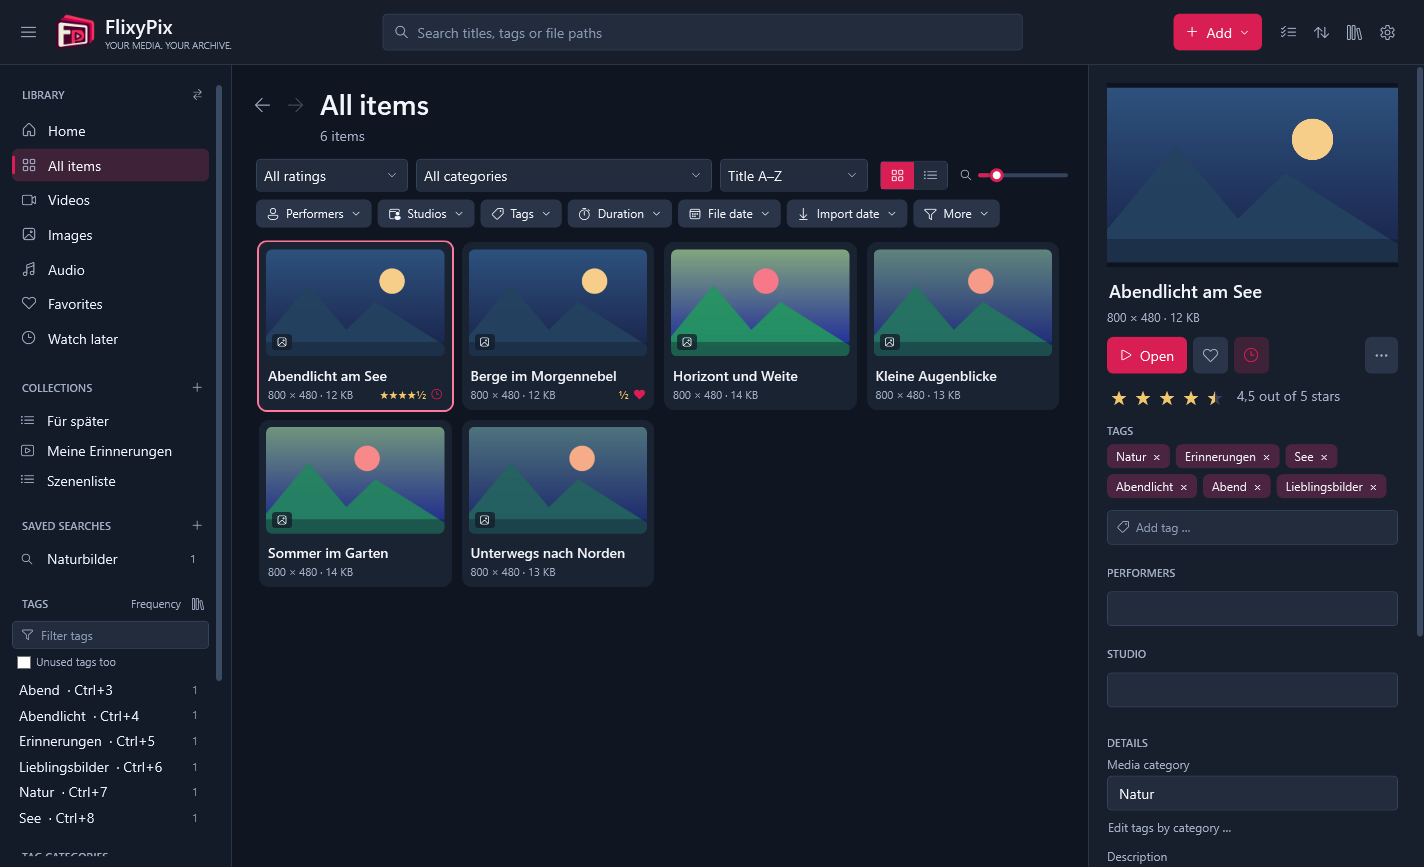
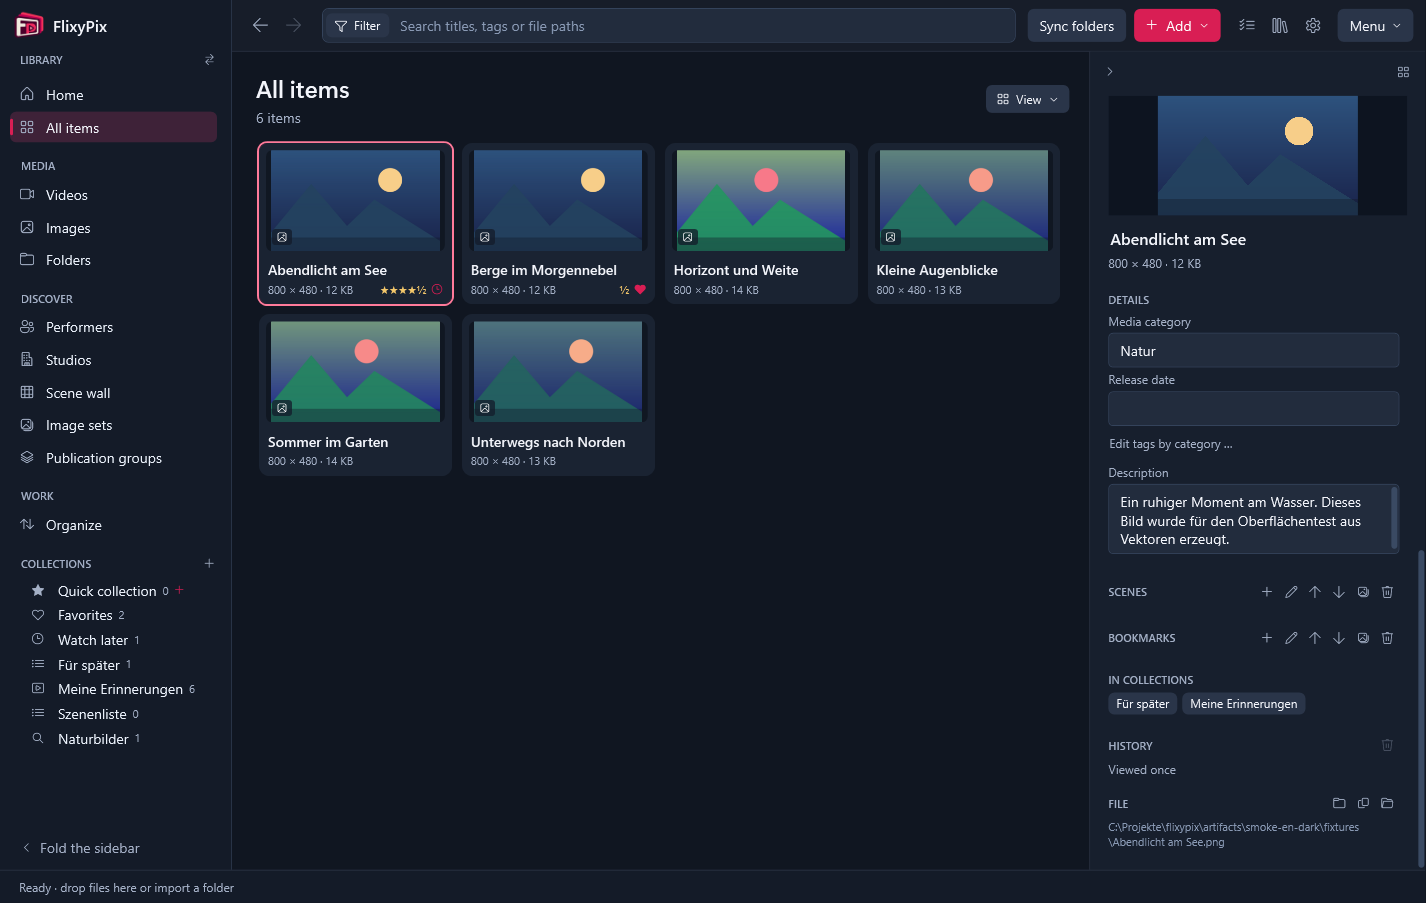
Prepare changelog, readmes and screenshot for 0.6.0

diff --git a/CHANGELOG.md b/CHANGELOG.md
@@ -5,51 +5,68 @@ FlixyPix follows [semantic versioning](https://semver.org/). Before 1.0, a minor
 
 ## Unreleased
 
-The catalog format changes; libraries opened with this version
-are upgraded and should not be opened with 0.5.0 afterwards (a copy is kept before the upgrade).
+**Upgrading from 0.5.0:** the catalog format changes. FlixyPix asks before converting a library and
+keeps a copy of the catalog beside it; 0.5.0 cannot open a converted library. Back up your media files
+separately. Ctrl+1–9 no longer sets tags: pinned tags now work with 1–9 in the tag mode (T).
 
-- New layout: the left bar is for navigation and collections; tags and common filters open in a panel beside the media, and active filters stand as chips in the search field.
-- Folders are an area of their own: walk through them with the tree, the path above the media or the subfolders; “Show in folder” in the details goes straight there.
-- Performers and studios are galleries, most frequent first, with a page per entry; the table for maintaining entries is one click away.
-- The selection bar offers tag mode, collections and more; the details appear only while something is selected.
-- The scene wall and the media jobs are pages of the main window, and a double click opens a page per medium with its picture, timeline, marks, history and similar media. Enter and the play button on a tile still play.
-- “Organize” is a work area: queues such as without tags and unrated are worked through one item at a time with visible progress, beside the maintenance tools.
-- The start page leads with continue watching, recently added, recently tagged and what is left to do, instead of a banner; the notice at start is gone.
-- The queues of “Organize” can be narrowed to videos, images or audio, on the page and above a running queue; the choice stays.
-- The thumbnail check skips images, which need no thumbnail, and no longer decodes pictures in common formats, so it stays quick in large libraries.
-- One type scale and three sizes for text buttons across the application.
-- Ctrl+1–9 no longer sets tags. Pinned tags work with 1–9 in the tag mode (T).
-- Interface size: all text and controls from 85 to 160 % in the settings or with Ctrl+Plus, Ctrl+Minus and Ctrl+0.
-- Calmer look: the accent marks the main action and the current choice, applied tags and filters are neutral.
-- Tag mode (T): tag with one hand using 1–9 and Q W E R, move on with the arrow keys; rows and keys stay put.
-- Suggestions say why they appear, compare against how common a tag is, send performers and studios to their
-  categories and fall behind when ignored; applied tags come first and only their × removes them.
-- The folder filter shows as a chip, and a bar states selections the grid cannot show.
-- Moving a library rewrites only media whose paths change.
-- Import from Stash: a wizard for scenes, images, galleries, groups, performers, studios and
-  tag parents, with explicit version confirmation, images inside archives and guarded
-  transactions, fast also for large exports.
-- Organize: review inbox, selective parser apply, image sets, publication groups, tag
-  hierarchy, a duplicate hub, performer and studio views and a paged scene wall.
-- Player: A–B loops, playback preferences per video, seek previews from memory and times on
-  contact sheets. A compact bar with symbol groups for loop, bookmark and scene marking, one
-  symbol for audio and subtitle tracks, grouped jump marks and a star rating.
-- Sidebar: library entries in foldable groups with icons, scrolling together with the cards.
-  The review inbox appears once reviewing is in use (setting: automatic, always, never), audio
-  only with audio media. Favorites and Watch later are fixed rows of the collection card; tags
-  and tag categories share one card with a list/categories switch and visible sorting.
-- Boss key: system-wide by default, also with Esc; the program in front still receives the
-  key. Hidden windows return with a separate shortcut.
-- Portable storage with safe switching between portable and profile mode. Libraries taken over
-  before their location was recorded find their thumbnails again after a move.
-- Folder synchronization, media folder tabs and undo of immediate edits per field.
-- Thumbnail filter: the list appears at once and missing or damaged thumbnail files join it from
-  a check in the background; audio without a picture no longer counts as missing a thumbnail.
-- Lists to work through: what an edit moves out of the "without thumbnail" or "unrated" filter
-  stays visible as done until "Update list" or another view. "Create thumbnails for this list"
-  handles all its videos.
-- Folder tree: levels shared by all folders without media of their own are left out; the tooltip
-  of "All folders" names them.
+**A new layout**
+
+- The left bar holds the areas and your collections, and folds to symbols. Tags and common filters open
+  in a panel beside the media; every other filter is still one click away. Active filters stand as
+  chips in the search field.
+- Folders are an area of their own: walk through them with the tree, the path above the media or the
+  subfolders. "Show in folder" in the details goes straight there.
+- Normal work stays in the main window. The scene wall and media jobs are pages, and a double click
+  opens a page per medium with its picture, timeline, marks, history and similar media. Enter and the
+  play button on a tile still play.
+- Performers and studios are galleries, most frequent first, with a page per entry; the table for
+  maintaining entries is one click away.
+- "Organize" is a work area: queues such as without tags and unrated are worked through one item at a
+  time with visible progress, can be narrowed to videos, images or audio, and stand beside the
+  maintenance tools.
+- The start page leads with what is left to do, continue watching, recently added and recently tagged,
+  instead of a banner and a notice at start.
+- The details appear only while something is selected. A bar offers tag mode, collections and more for
+  several items, and says when some are out of view.
+- Interface size from 85 to 160 % (settings, Ctrl+Plus, Ctrl+Minus, Ctrl+0), a calmer look with the
+  accent only on the main action and the current choice, and one type scale throughout.
+
+**Tagging**
+
+- Tag mode (T): tag with one hand using 1–9 and Q W E R, move on with the arrow keys.
+- Suggestions say why they appear, compare against how common a tag is, send performers and studios to
+  their categories and fall behind when ignored. Applied tags come first, and only their × removes them.
+
+**New**
+
+- Import from Stash: a wizard for scenes, images, galleries, groups, performers, studios and tag parents,
+  with images inside archives, fast also for large exports.
+- Organize: review inbox, selective parser apply, image sets, publication groups, tag hierarchy and a
+  duplicate hub.
+- Player: A–B loops, playback preferences per video, seek previews from memory and times on contact
+  sheets; a compact bar with loop, bookmark and scene marking, grouped jump marks and a star rating.
+- Portable storage with safe switching between portable and profile mode.
+- Folder synchronization and undo of immediate edits per field.
+
+**Better**
+
+- Lists to work through: what an edit moves out of a queue stays visible as done until "Update list" or
+  another view. "Create thumbnails for this list" handles all its videos.
+- The thumbnail filter answers at once. The check behind it skips images, which need no thumbnail, and
+  no longer decodes common formats, so it stays quick in large libraries; a file cut off further on
+  counts as readable.
+- Boss key: system-wide by default, also with Esc; the program in front still receives the key. Hidden
+  windows return with a separate shortcut.
+- Moving a library rewrites only media whose paths change, and libraries taken over before their location
+  was recorded find their thumbnails again.
+
+Compatibility and distribution:
+
+- Catalog schema 26. Libraries from 0.5.0 (schema 17) convert on opening; older ones must first be opened
+  with 0.5.0.
+- The ZIP includes the .NET runtime, mpv, FFmpeg, ffprobe and third-party notices. There is no installer
+  or code signature yet; Windows SmartScreen may ask for confirmation.
+- Translations are AI-assisted and have not received native-speaker review.
 
 ## 0.5.0
 

diff --git a/README.md b/README.md
@@ -7,9 +7,9 @@ computer: no account, no server, no online services.
 FlixyPix started as an independent successor for users of EazyFlixPix 4.8.4, a program that is
 no longer maintained, and can take over its catalogs.
 
-![FlixyPix with a library of sample images, filters and the details of the selected item](docs/images/flixypix.png)
+![FlixyPix with a library of sample images, the left bar and the details of the selected item](docs/images/flixypix.png)
 
-> **Release: 0.5.0.** FlixyPix is distributed as a portable Windows application.
+> **Release: 0.6.0.** FlixyPix is distributed as a portable Windows application.
 > Versions before 1.0 may change catalog formats and behavior; release notes describe those changes.
 > Catalog upgrades create a migration backup. Back up your catalog and media files before updating;
 > older application versions may not be able to open an upgraded catalog.
@@ -18,10 +18,11 @@ no longer maintained, and can take over its catalogs.
 
 - **Catalog:** import files and folders or watch media folders; files are never moved. Moved or
   renamed files are found again, missing ones are reported.
-- **Organize:** tags with categories and tag images, ratings, descriptions, collections, saved
-  searches, a directory of performers, studios and other entities, filename parsers and tagging
-  rules, duplicate detection.
-- **Search:** quick search, filters in the sidebar and an advanced search with a query language.
+- **Organize:** tags with categories and tag images, a one-handed tag mode, ratings, descriptions,
+  collections, saved searches, galleries of performers and studios, queues to work through, filename
+  parsers and tagging rules, duplicate detection.
+- **Browse and search:** walk through folders, quick search, filters as chips in the search field and
+  an advanced search with a query language.
 - **Play and view:** video and audio through mpv with scenes and bookmarks; an image viewer with
   zoom, rotation, slideshow and ZIP/RAR image archives.
 - **Tools:** thumbnails, clips, GIFs, joined videos and conversions through FFmpeg in a job queue.

diff --git a/docs/release/portable-readme.md b/docs/release/portable-readme.md
@@ -13,7 +13,7 @@ Die portable Ausgabe startet mit einem eigenen Datenordner neben der EXE. Eine v
 Dateien und Ordner importieren oder auf das Fenster ziehen. Beim Import bleiben Quelldateien an ihrem Ort. Bilder, Tags, Bewertungen, Beschreibungen, Kategorien, Sammlungen und Suchvorgaben werden im eigenen SQLite-Katalog gespeichert. Automatische Vorschauen und Bildseiten verwenden einen gemeinsamen Decoder.
 
 - **Medienordner:** Hinzufügen ▾ → Medienordner … gleicht Ordner mit dem Katalog ab. Neue Dateien werden angeboten, verschobene und umbenannte neu zugeordnet, fehlende gemeldet; Quelldateien bleiben unverändert. Beobachtete Ordner meldet ein Hinweisbalken, F5 prüft sofort.
-- **Ordnen:** Erweiterte Suche, Vokabular, Ordner-/Tagfavoriten, Dateinamenparser, Tagregeln und Dubletten.
+- **Ordnen:** Warteschlangen wie „Ohne Tags“ oder „Unbewertet“ abarbeiten, mit T in den Tag-Modus wechseln, dazu erweiterte Suche, Vokabular, Dateinamenparser, Tagregeln und Dubletten.
 - **Katalog:** Migration in eine neue Bibliothek, Snapshot-Abgleich mit Berichten, JSON/CSV, ZIP-/RAR-Bildarchive und vollständige Sicherungen.
 - **Aufträge:** Konvertierung, Clips, GIFs, Zuschnitt, Videoverbindung und eingereihte Szenenbilder.
 - **Werkzeuge:** Mediengrafiken, Szenenvorschaugenerator, NFO, Dateiaktionen und Sammlungen. Unter Dateiverwaltung sind Stapelaktionen für die mit Strg/Umschalt markierten Medien verfügbar.

diff --git a/docs/release/portable-readme.en.md b/docs/release/portable-readme.en.md
@@ -17,7 +17,7 @@ The translations were produced and reviewed with AI assistance, not by native sp
 Import files or folders, or drag them onto the window. Source media stays in its original location. The SQLite catalog stores metadata, tags, ratings, descriptions, categories, collections and saved searches.
 
 - **Media folders:** Add a media folder from the Add menu. FlixyPix compares the folder with the catalog, offers new files, reassigns moved or renamed files and reports missing files. Watched folders show a notification; F5 checks immediately.
-- **Organize:** Use advanced search, the tag vocabulary, folder and tag favorites, filename parsers, tagging rules and duplicate detection.
+- **Organize:** Work through queues such as items without tags or unrated ones, press T for the one-handed tag mode, and use advanced search, the tag vocabulary, filename parsers, tagging rules and duplicate detection.
 - **Catalog:** Migrate to a new library, compare snapshots, import/export JSON or CSV, read ZIP/RAR image archives and create complete backups.
 - **Jobs:** Queue conversions, clips, GIFs, crops, joined videos and scene images. File management offers batch actions for items selected with Ctrl or Shift.
 
